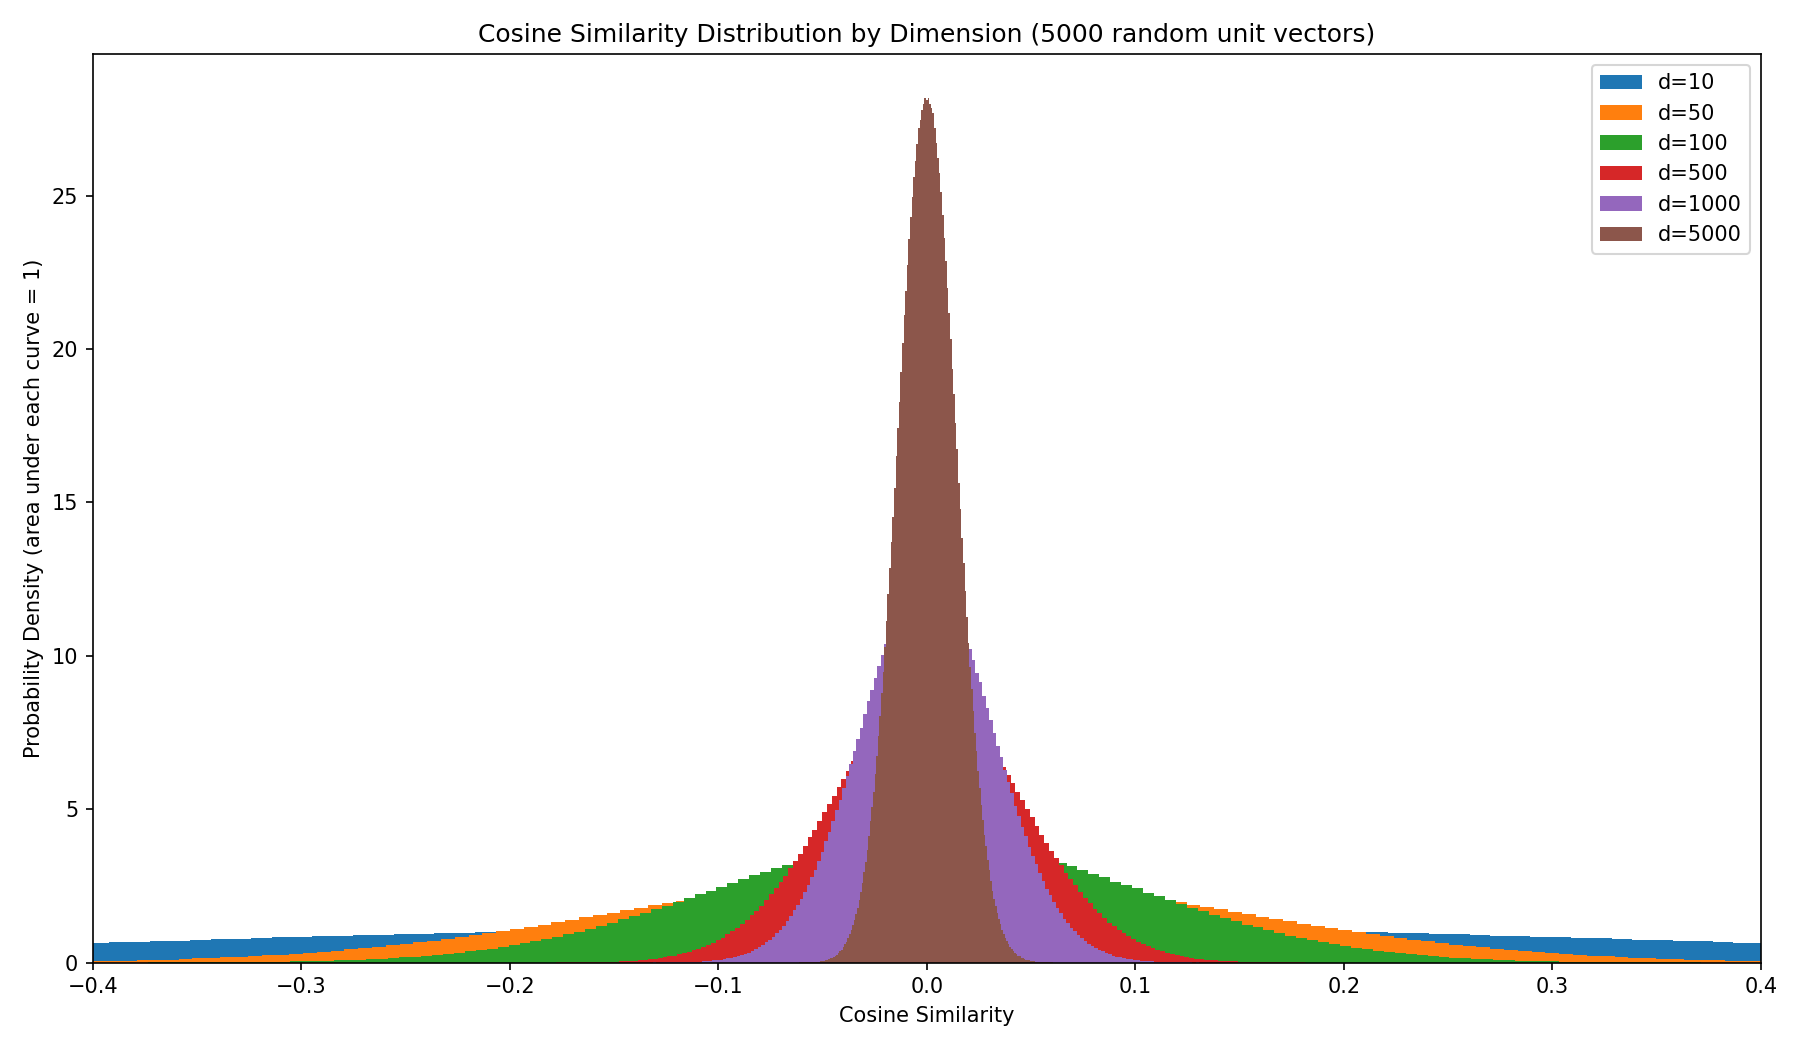
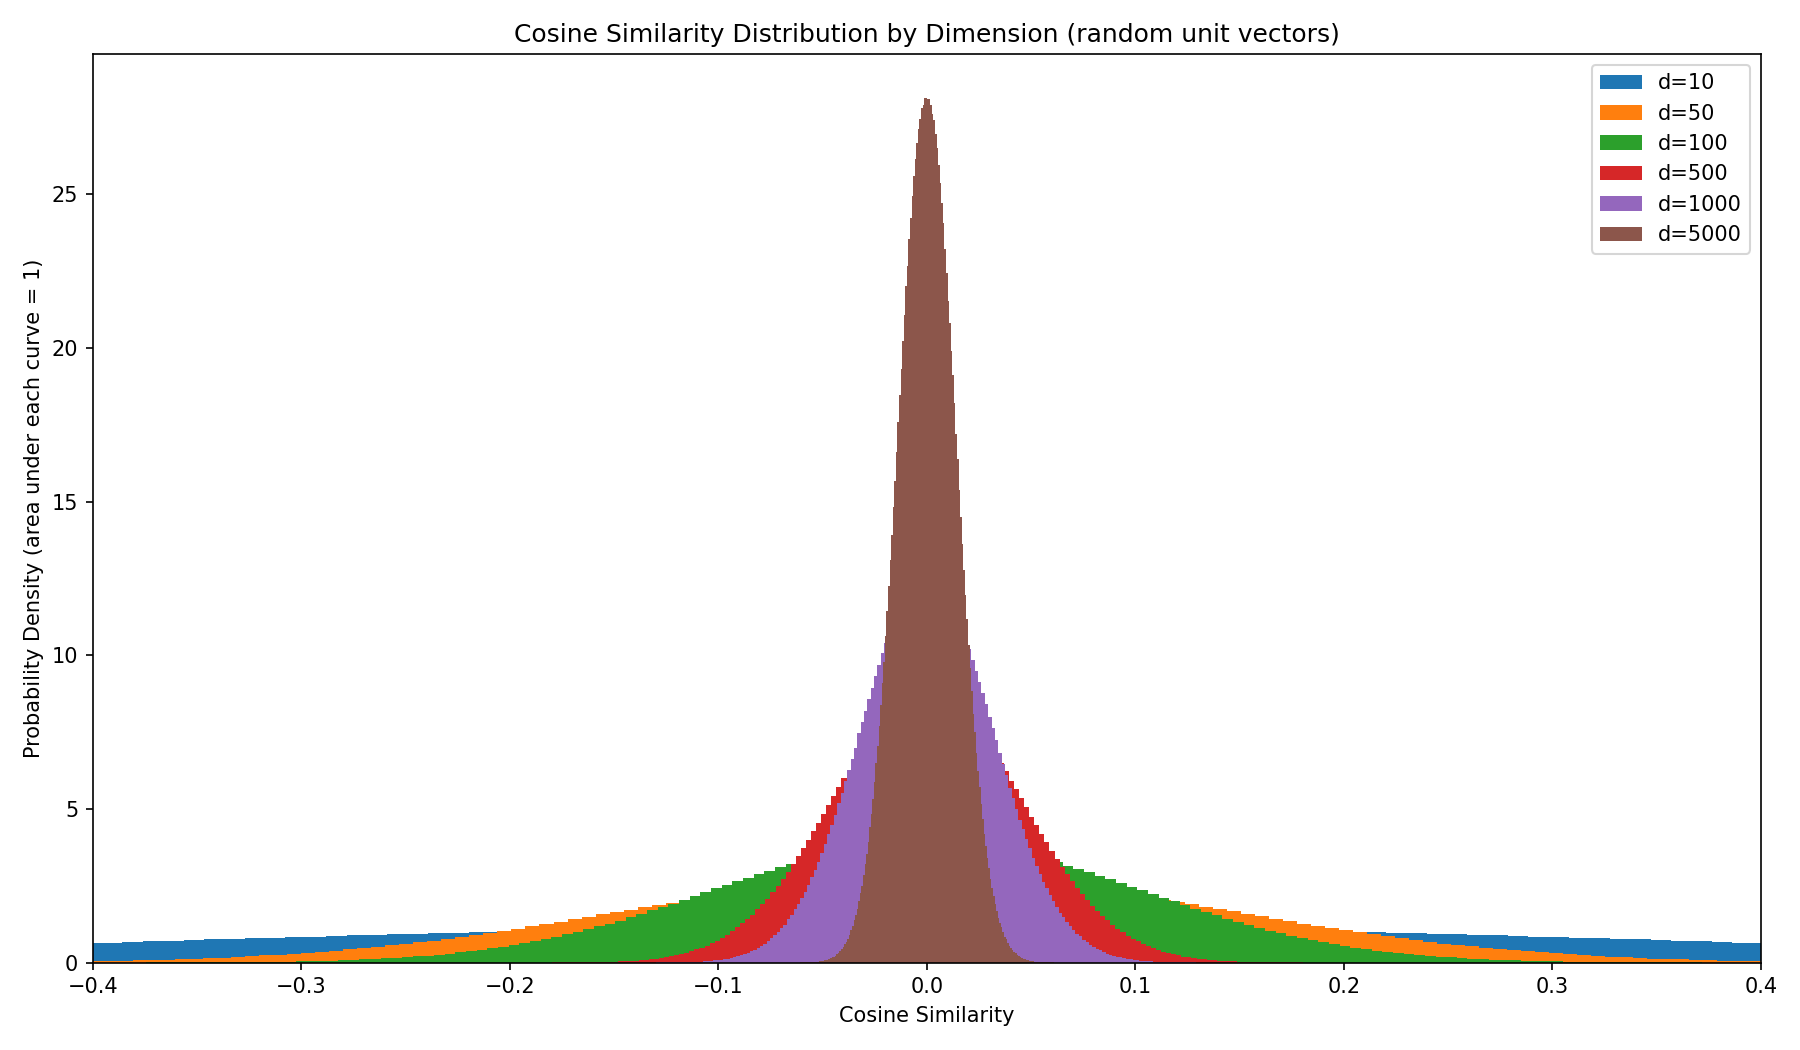
Remove vector count from plot title since it doesn't affect the distribution

Changed region(s): [[0.28, 0.0, 0.7467, 0.061]]

diff --git a/cosine_sim_multi_dim.py b/cosine_sim_multi_dim.py
@@ -19,7 +19,7 @@ for dim in dims:
 plt.xlim(-0.4, 0.4)
 plt.xlabel("Cosine Similarity")
 plt.ylabel("Probability Density (area under each curve = 1)")
-plt.title(f"Cosine Similarity Distribution by Dimension ({n_vectors} random unit vectors)")
+plt.title("Cosine Similarity Distribution by Dimension (random unit vectors)")
 plt.legend()
 plt.tight_layout()
 plt.savefig("images/cosine_sim_multi_dim.png", dpi=150)
